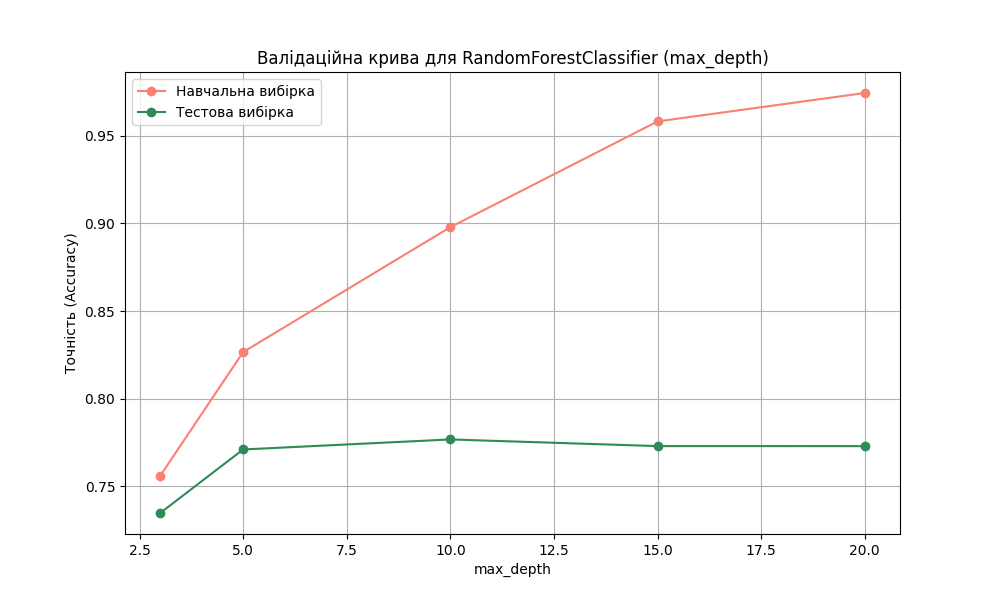
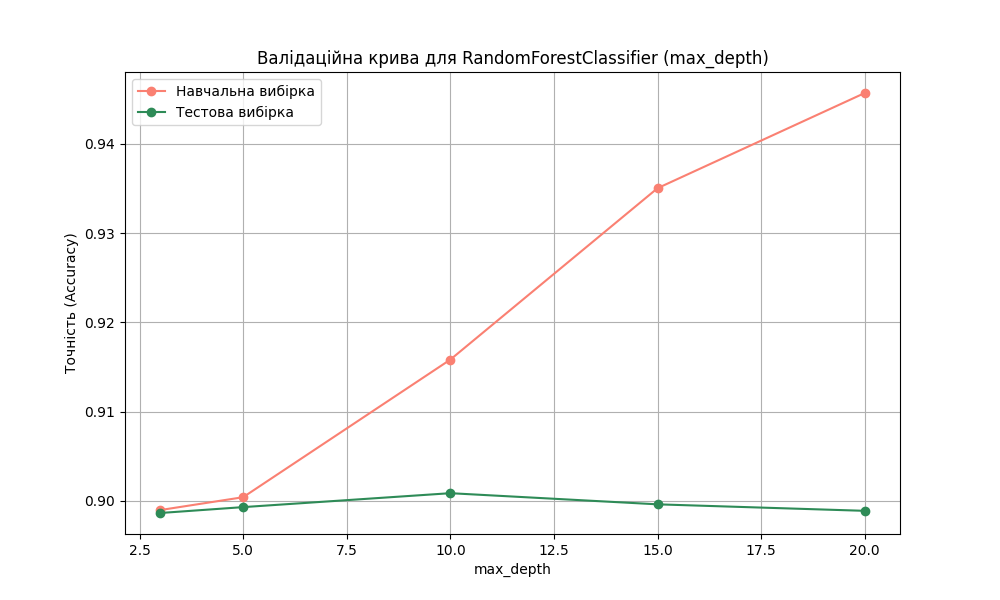
lab4

diff --git a/LW4/lw4.py b/LW4/lw4.py
@@ -7,51 +7,28 @@ from sklearn.model_selection import train_test_split, GridSearchCV, KFold, valid
 from sklearn.metrics import  accuracy_score, accuracy_score, classification_report
 from sklearn.tree import export_graphviz, DecisionTreeClassifier
 from sklearn.neighbors import KNeighborsClassifier
+from sklearn.preprocessing import StandardScaler, LabelEncoder
 import pydotplus
 
-df = pd.read_csv('D:/Machine Learning Course/ML_Fall2024/LW4/bank--additional-full.csv', sep=';')
+df = pd.read_csv('./bank--additional-full.csv', sep=';')
 
-print(f'Інформація про набір даних:\n{df.info()}')
-print(f'Перші 5 стрічок набору даних:\n{df.head()}')
-print(f'Форма подання даних:\n{df.shape}')
+df = df.drop(columns=['duration'])
 
-df.replace({
-    'unknown': np.nan,
-    'nonexistent': np.nan,
-    999: np.nan
-}, inplace=True)
+label_encoder = LabelEncoder()
 
+for col in ['default', 'housing', 'loan', 'y']:
+    df[col] = label_encoder.fit_transform(df[col])
 
-print(f'Число пропущених значень в колонках:\n{df.isnull().sum()}')
-print(f'Загальне число пропущених значень:\n{df.isnull().sum().sum()}')
+df = pd.get_dummies(df, drop_first=True)
 
+X = df.drop(columns=['y'])
+y = df['y']
 
-df.dropna(inplace=True)
-df.drop_duplicates(inplace=True)
-print(f'Кількість дублікатних стрічок:\n{df.duplicated().value_counts()}')
-print(f'Інформація про числові дані(колонки):\n{df.describe()}')
-print(f'Інформація про категоріальні дані (колонки):\n{df.describe(include=["object"])}')
+X_train, X_test, y_train, y_test = train_test_split(X, y, test_size=0.3, random_state=42)
 
-sns.countplot(data=df, x='y', palette='pink')
-plt.title("Розподіл значень цільової змінної (y)")
-plt.xlabel("Підписка на строковий депозит")
-plt.ylabel("Кількість клієнтів")
-plt.grid()
-plt.savefig('D:/Machine Learning Course/ML_Fall2024/LW4/Results/target_y_distribution.png')
-plt.close()
-
-
-df['y'] = df['y'].map({'yes': 1, 'no': 0})
-
-categorical_columns = df.select_dtypes(include=['object']).columns
-df = pd.get_dummies(df, columns=categorical_columns, drop_first=True)
-
-X = df.drop('y', axis=1)
-y = df['y'].astype(int)
-X_train, X_test, y_train, y_test = train_test_split(X, y, test_size=0.2, random_state=42)
-print(f'Розмір навчальної вибірки: X_train: {X_train.shape}, y_train: {y_train.shape}')
-print(f'Розмір тестової вибірки: X_test: {X_test.shape}, y_test: {y_test.shape}')
-
+scaler = StandardScaler()
+X_train = scaler.fit_transform(X_train)
+X_test = scaler.transform(X_test)
 
 classifier = DecisionTreeClassifier(
     min_samples_split = 5, 
